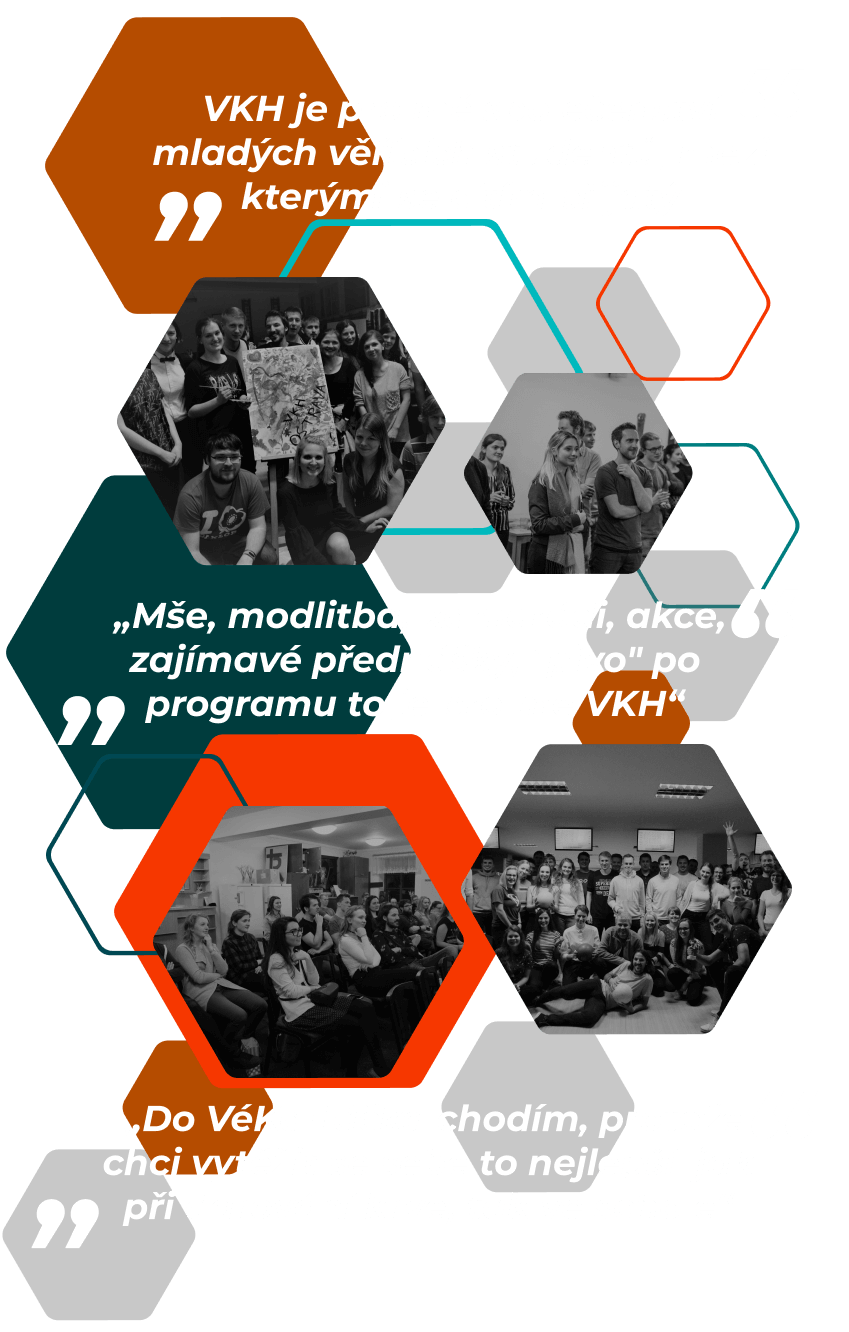
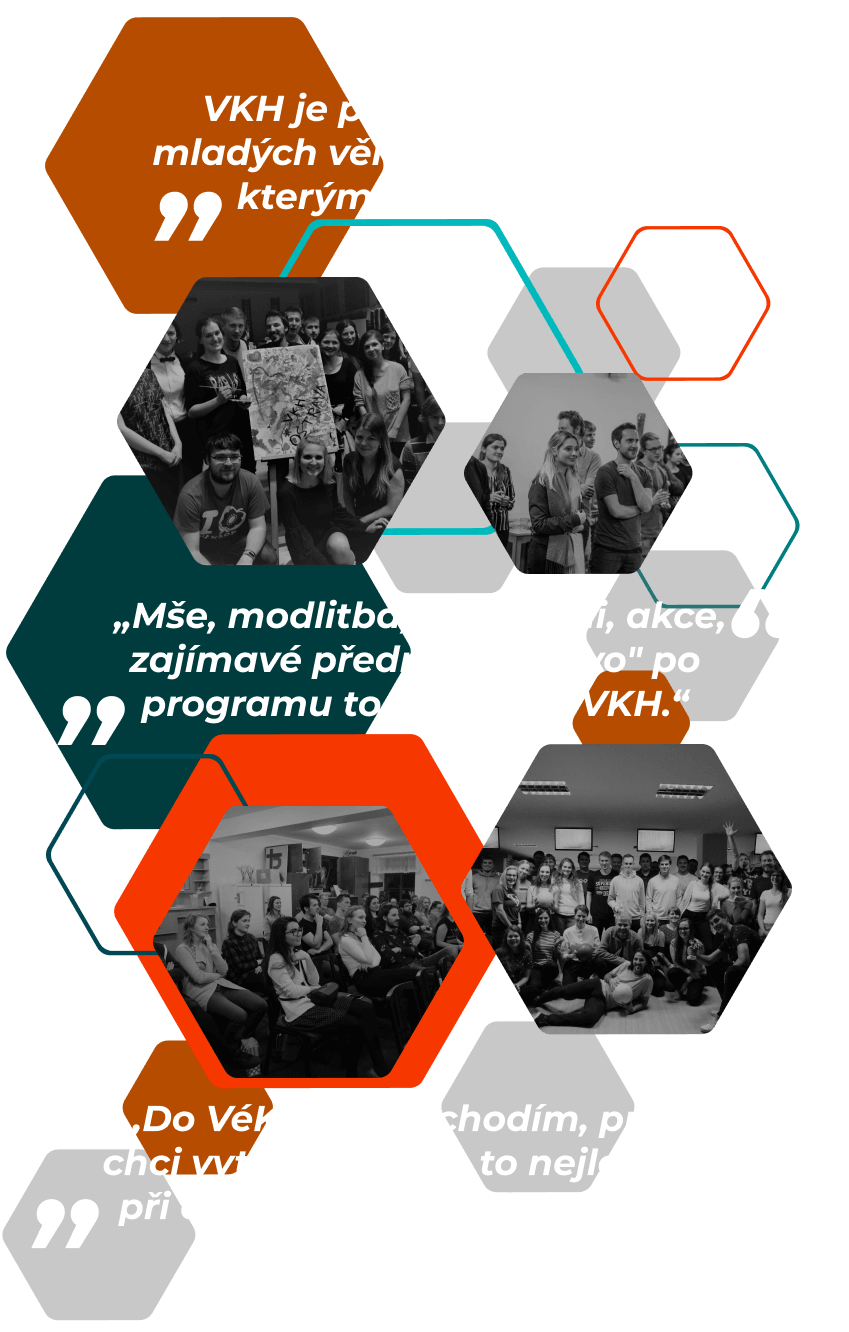
fix mě me

diff --git a/src/constants/texts.js b/src/constants/texts.js
@@ -23,6 +23,6 @@ export default {
   quotes: [
     'VKH je pro mě společenství mladých věřících studentů, mezi kterými se cítím přijatý.',
     'Do VéKaHáčka chodím, protože chci vytěžit ze sebe to nejlepší jak při darování krve, tak ve schole.',
-    'Mše, modlitba, kamarádi, akce, zajímavé přednášky, "pivo" po programu to je pro me VKH.',
+    'Mše, modlitba, kamarádi, akce, zajímavé přednášky, "pivo" po programu - to je pro mě VKH.',
   ],
 }
